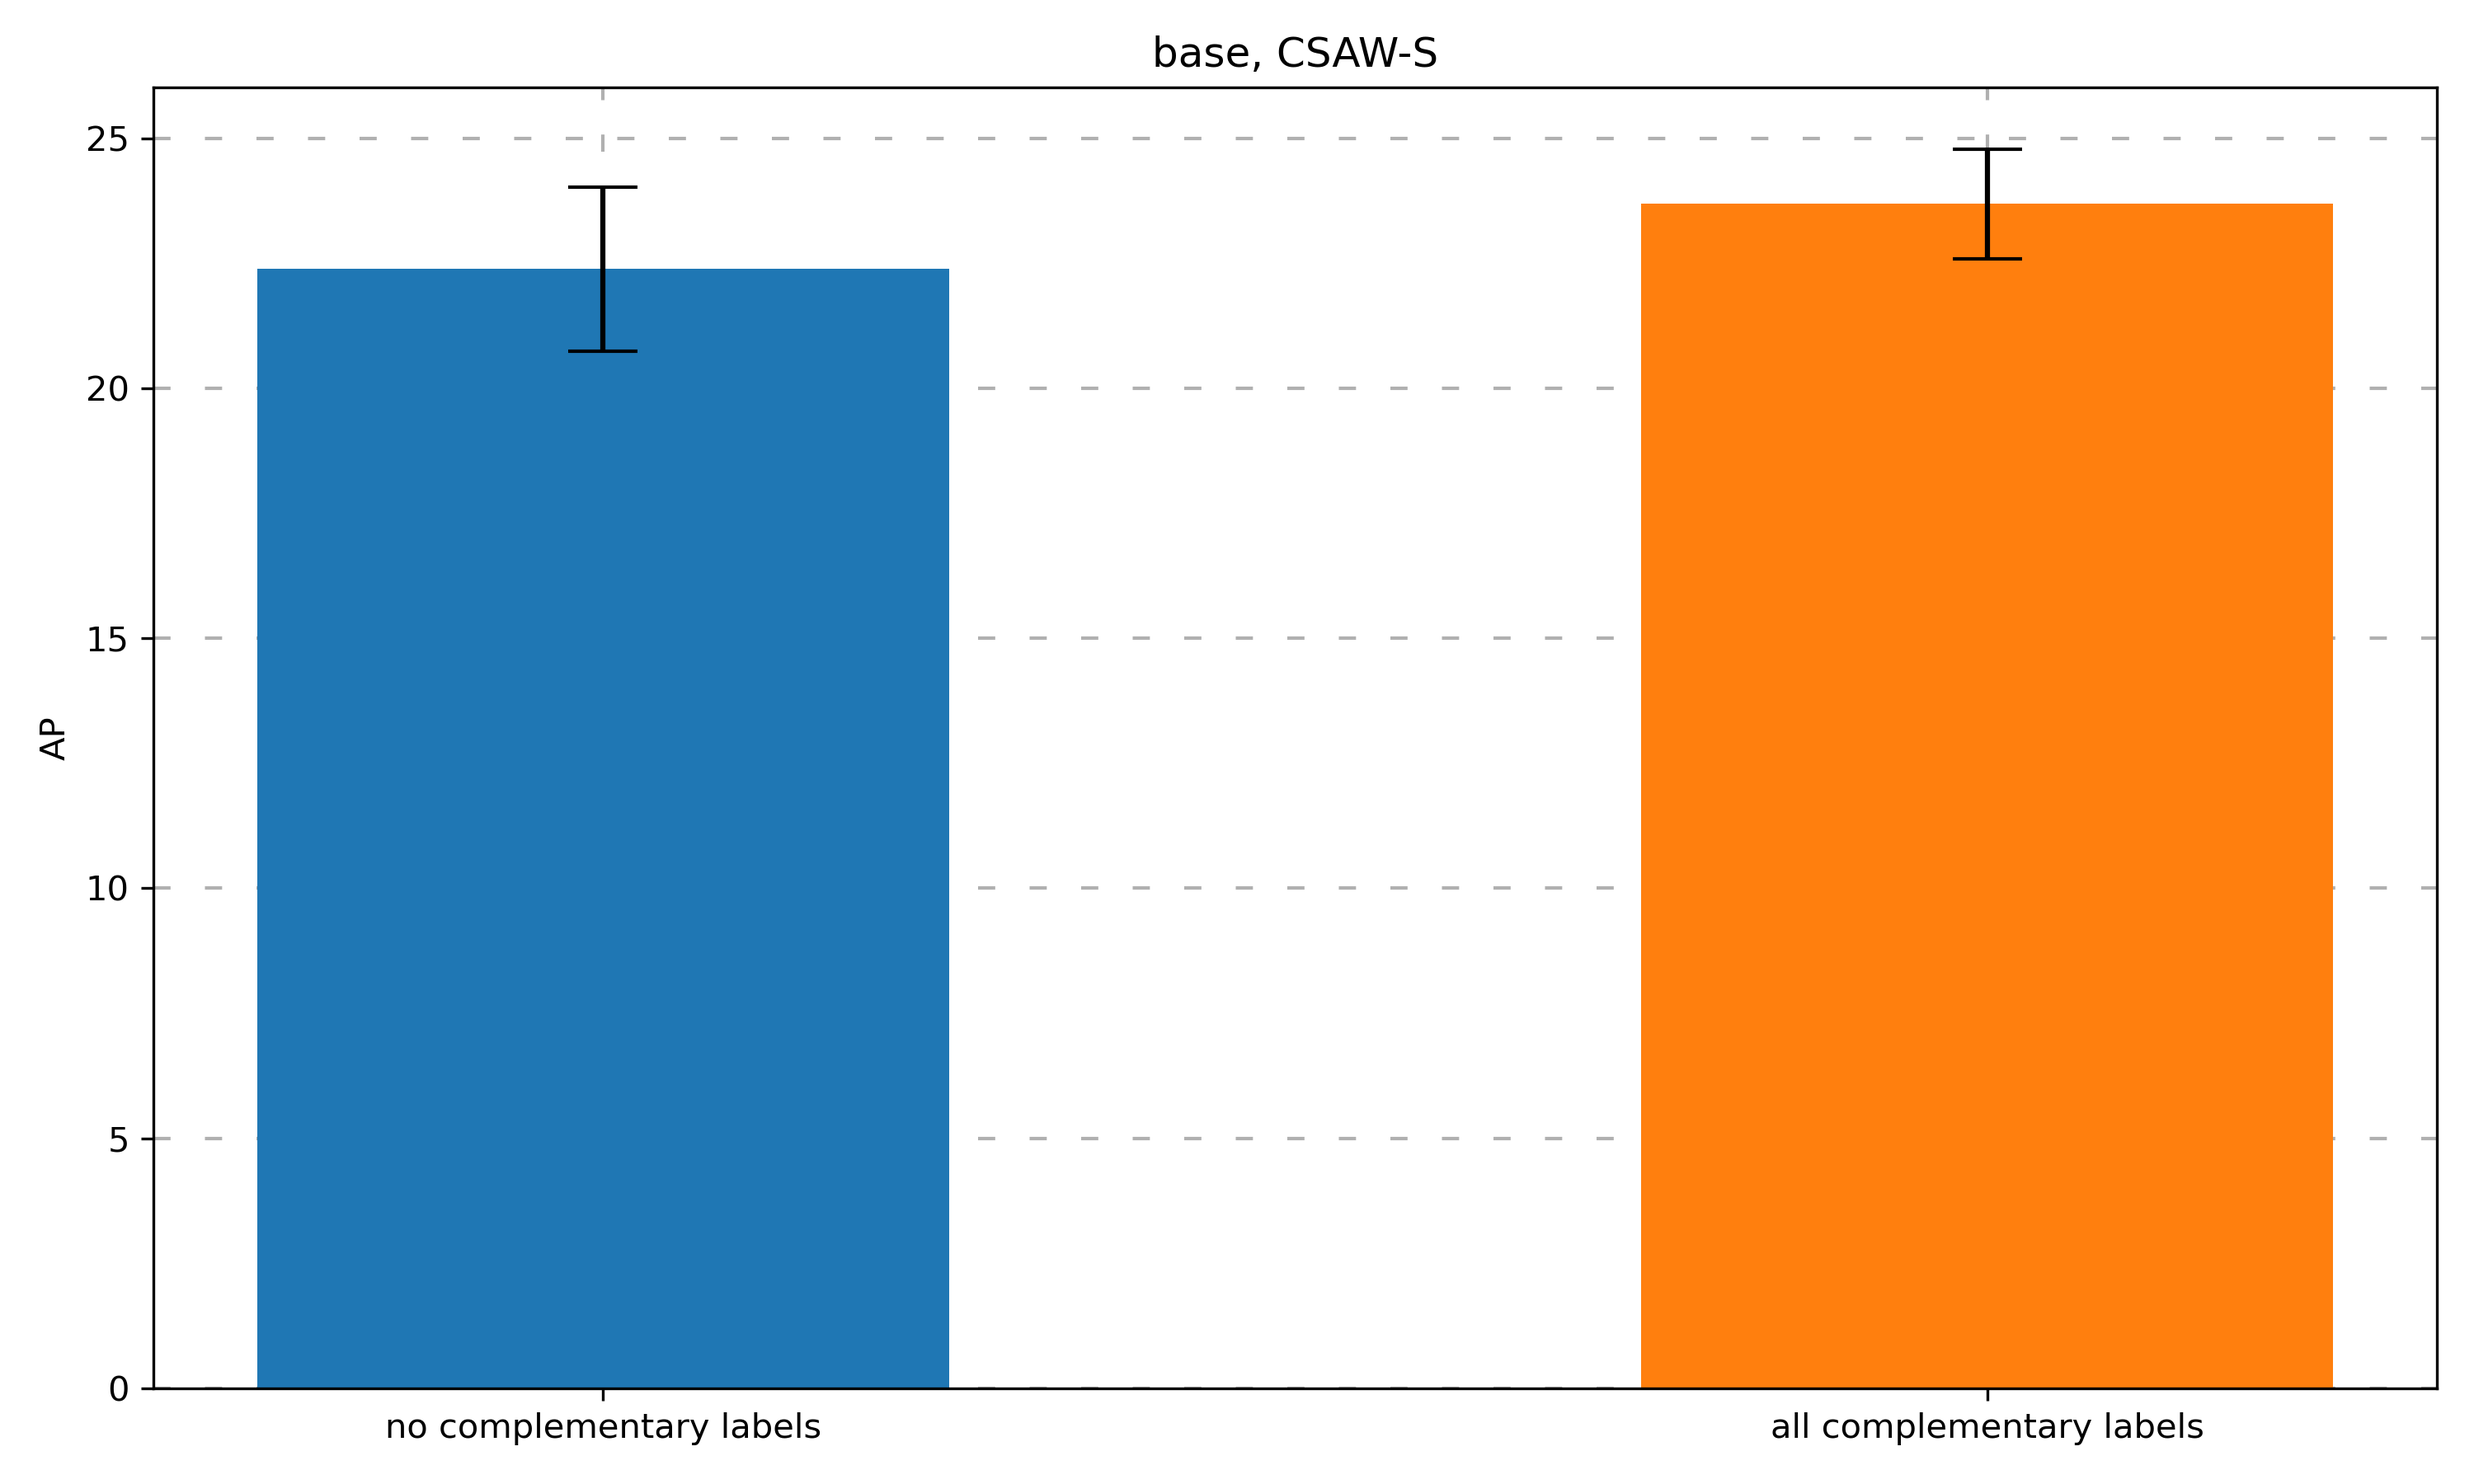
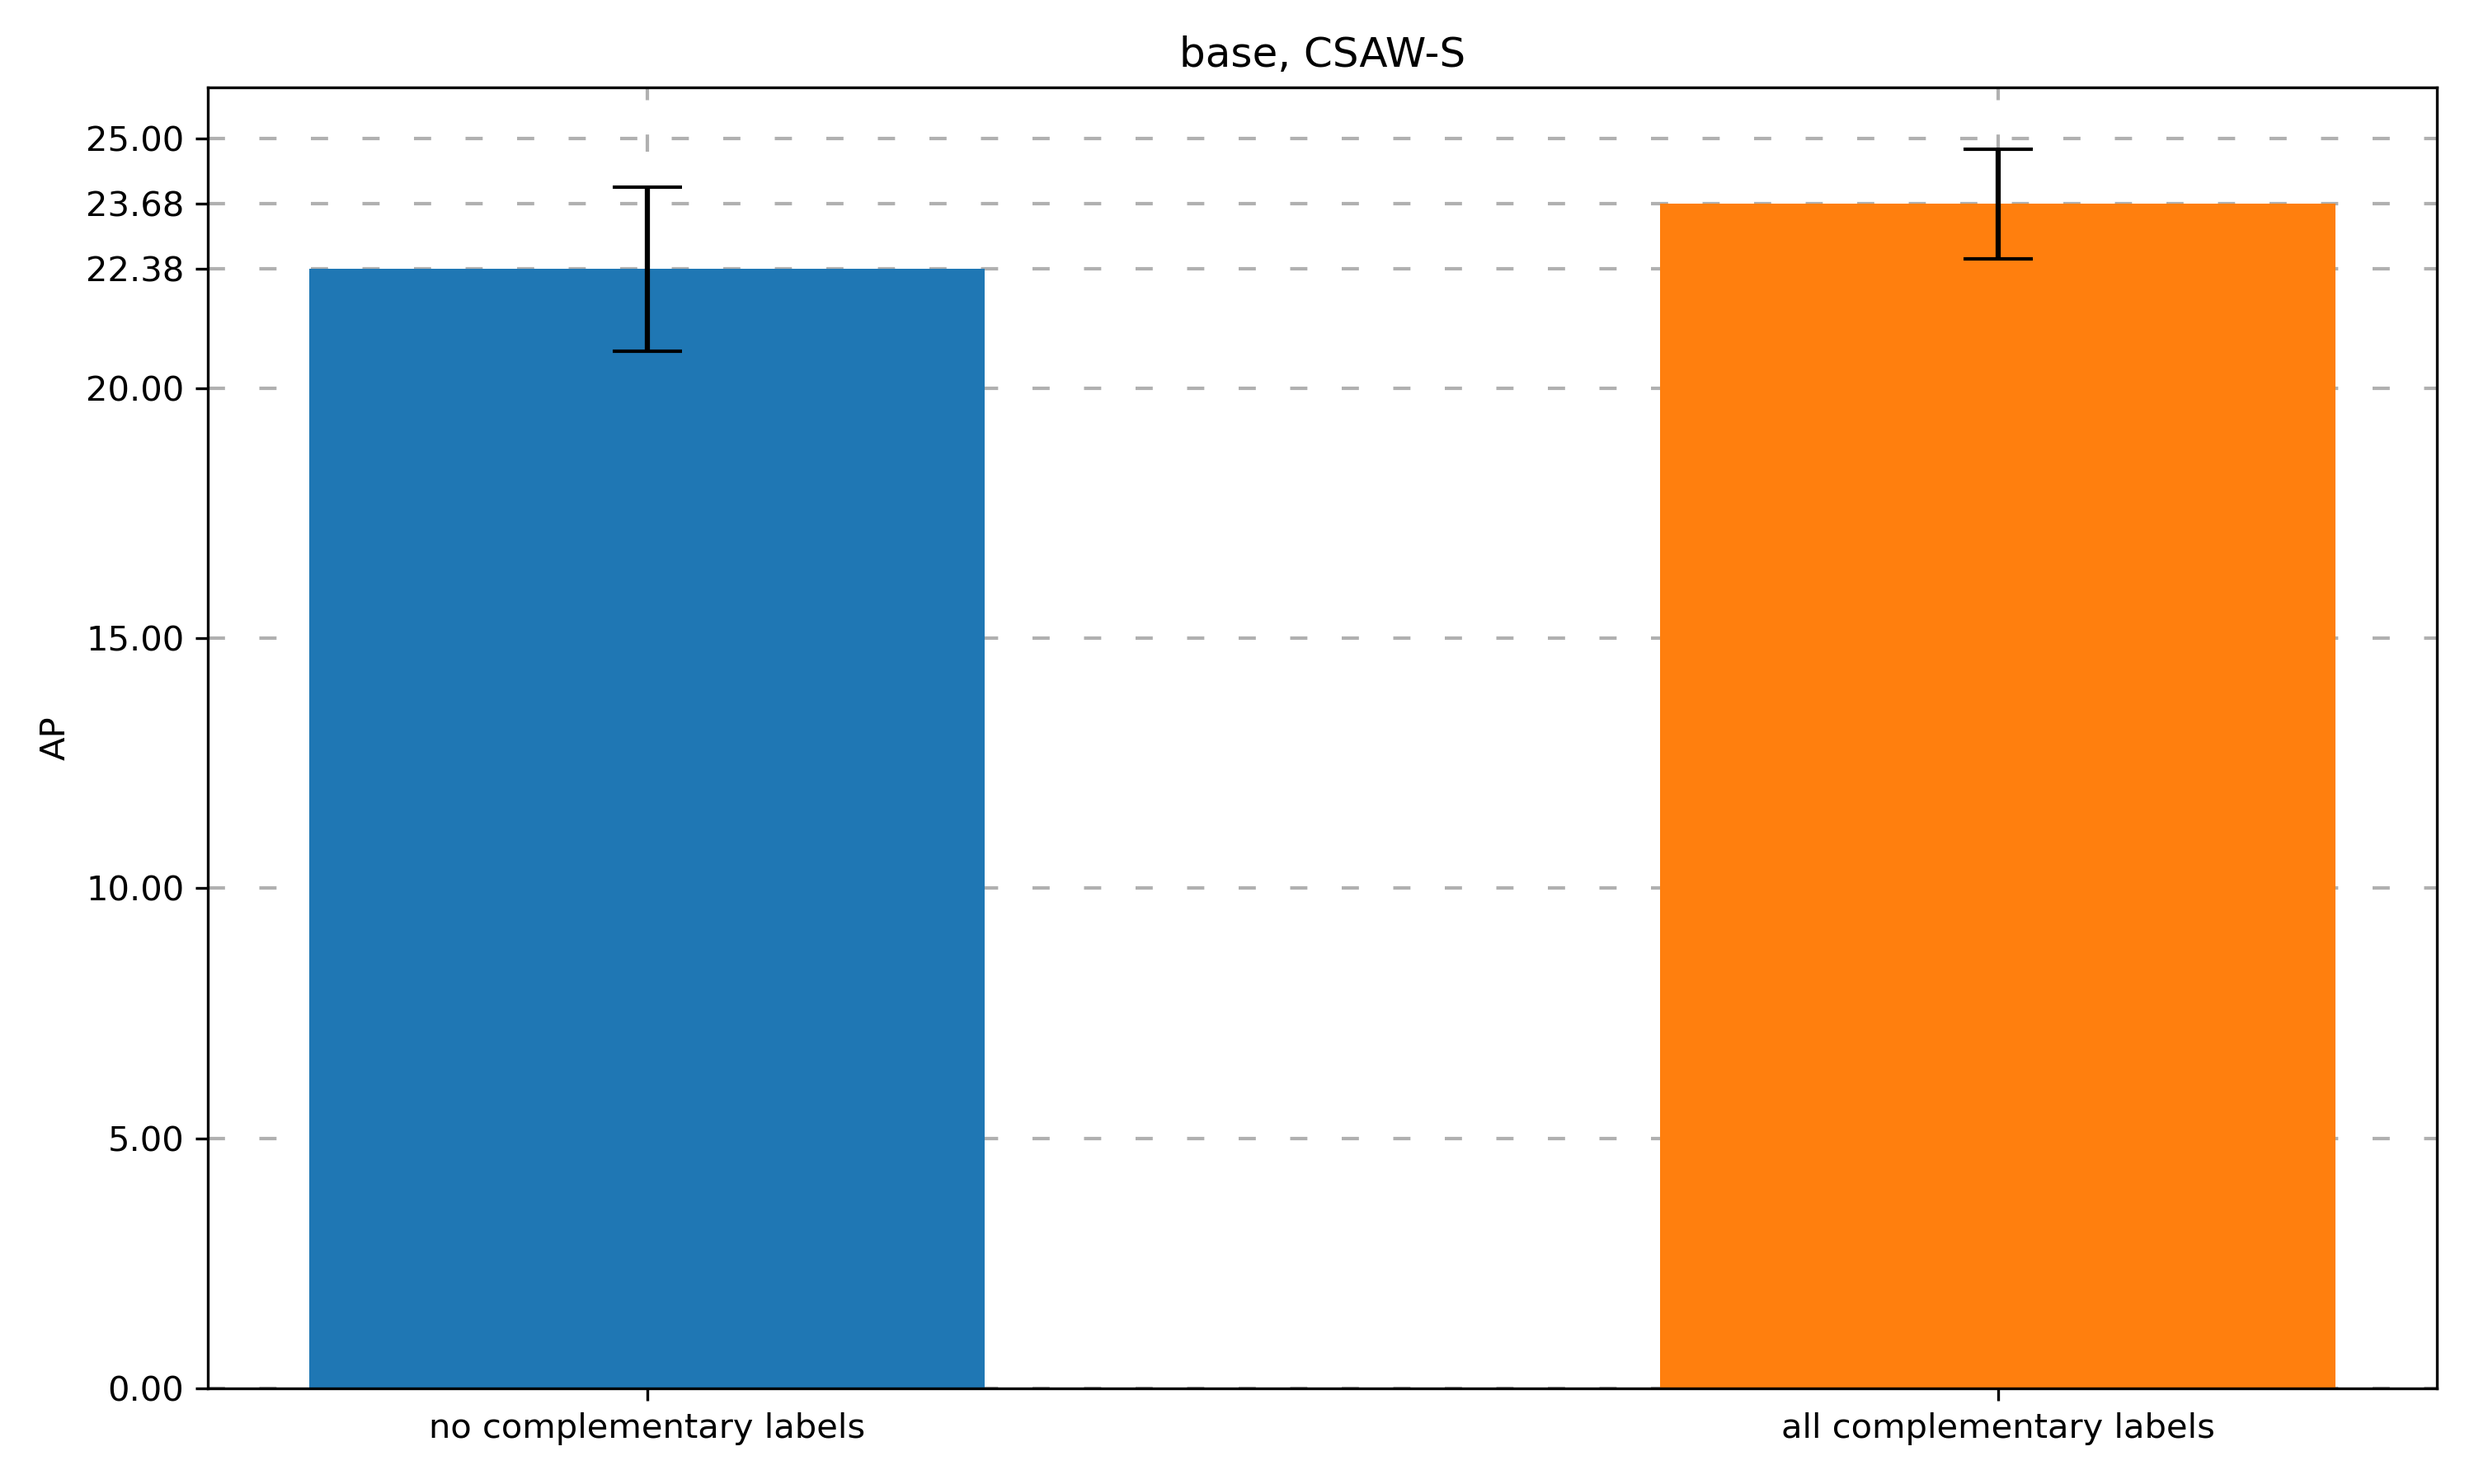
modded names and minor tweaks

diff --git a/src/scripts/generate_plots.py b/src/scripts/generate_plots.py
@@ -215,6 +215,7 @@ def bar(labels, data, main_label, args):
 
 
   means = np.mean(np.asarray(ys), axis=1)
+  print("MEANS", means[1] - means[0])
   ys_array = [np.asarray(y) for y in ys]
   ci = mean_confidence_interval(ys, confidence=0.95)
   print(ci.shape)
@@ -233,6 +234,8 @@ def bar(labels, data, main_label, args):
     "capsize": 10,
     "color": ["tab:blue", "tab:orange"],
     "zorder": 2})
+
+  ax.set_yticks(list(ax.get_yticks()) + means.tolist())
 
   ax.set_ylabel('AP')
   ax.set_title(f"{args.experiment}, {args.dataset}")
@@ -334,7 +337,7 @@ def main(args):
       graph([data_x, data_x_zero], [data, data_zero], main_label, args)
 
   elif args.plot == "differential":
-    labels = [path.split('/')[-1].split('.')[0].split('-')[-1] for path in paths]
+    labels = [' '.join('-'.join(path.split('/')[-1].split('.')[0].split('-')[2:]).split('_')) for path in paths]
     if args.experiment in ["loo", "vary-data"]:
       with open(os.path.join(result_path, f"metrics-base-all.json"), 'r') as fr:
         data.append(json.load(fr)) # in other words, data with all labels is last index
